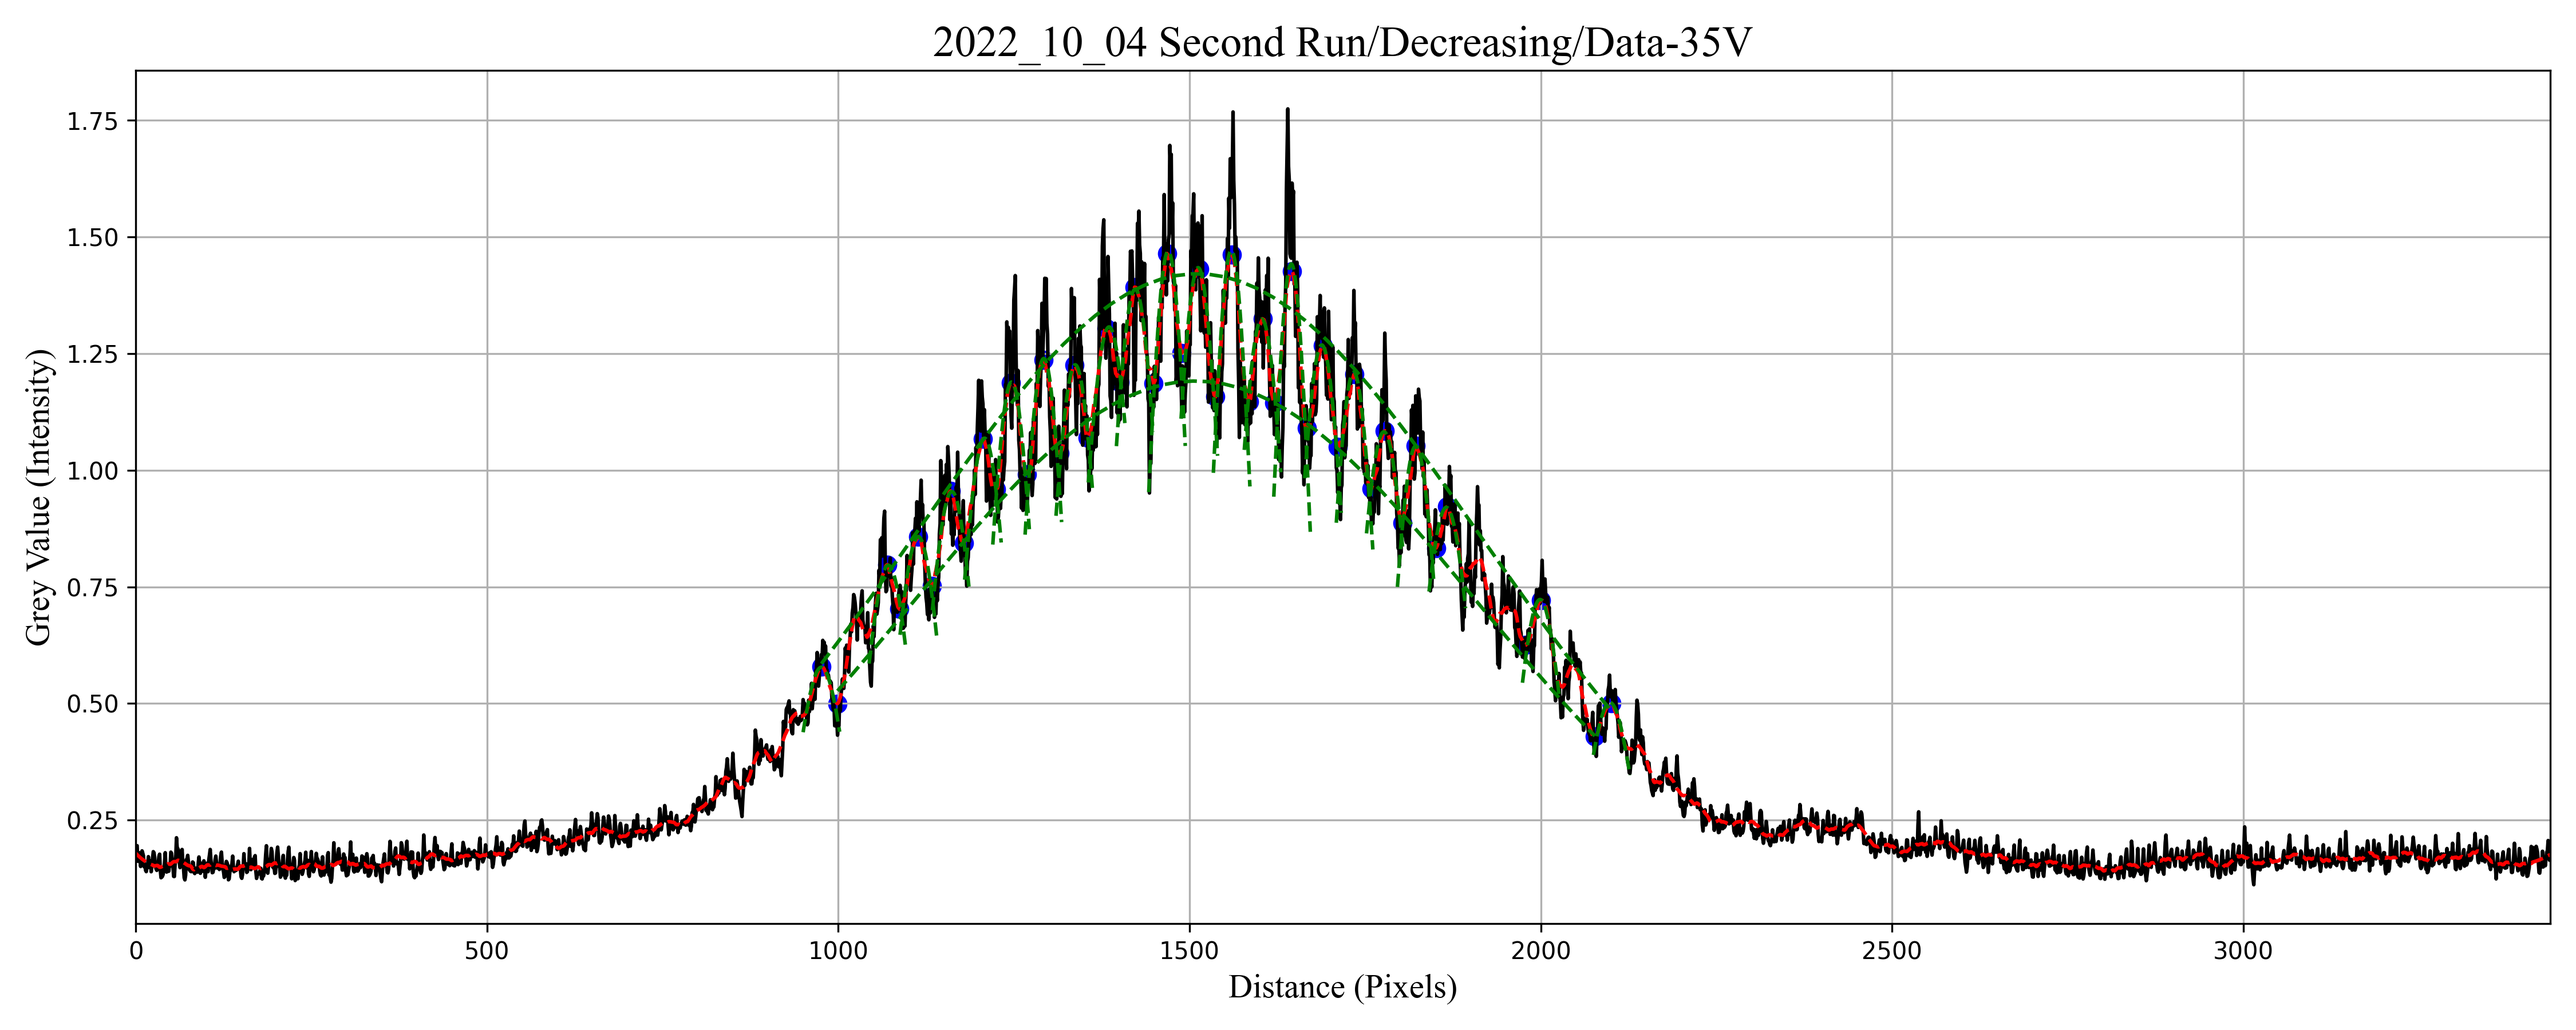
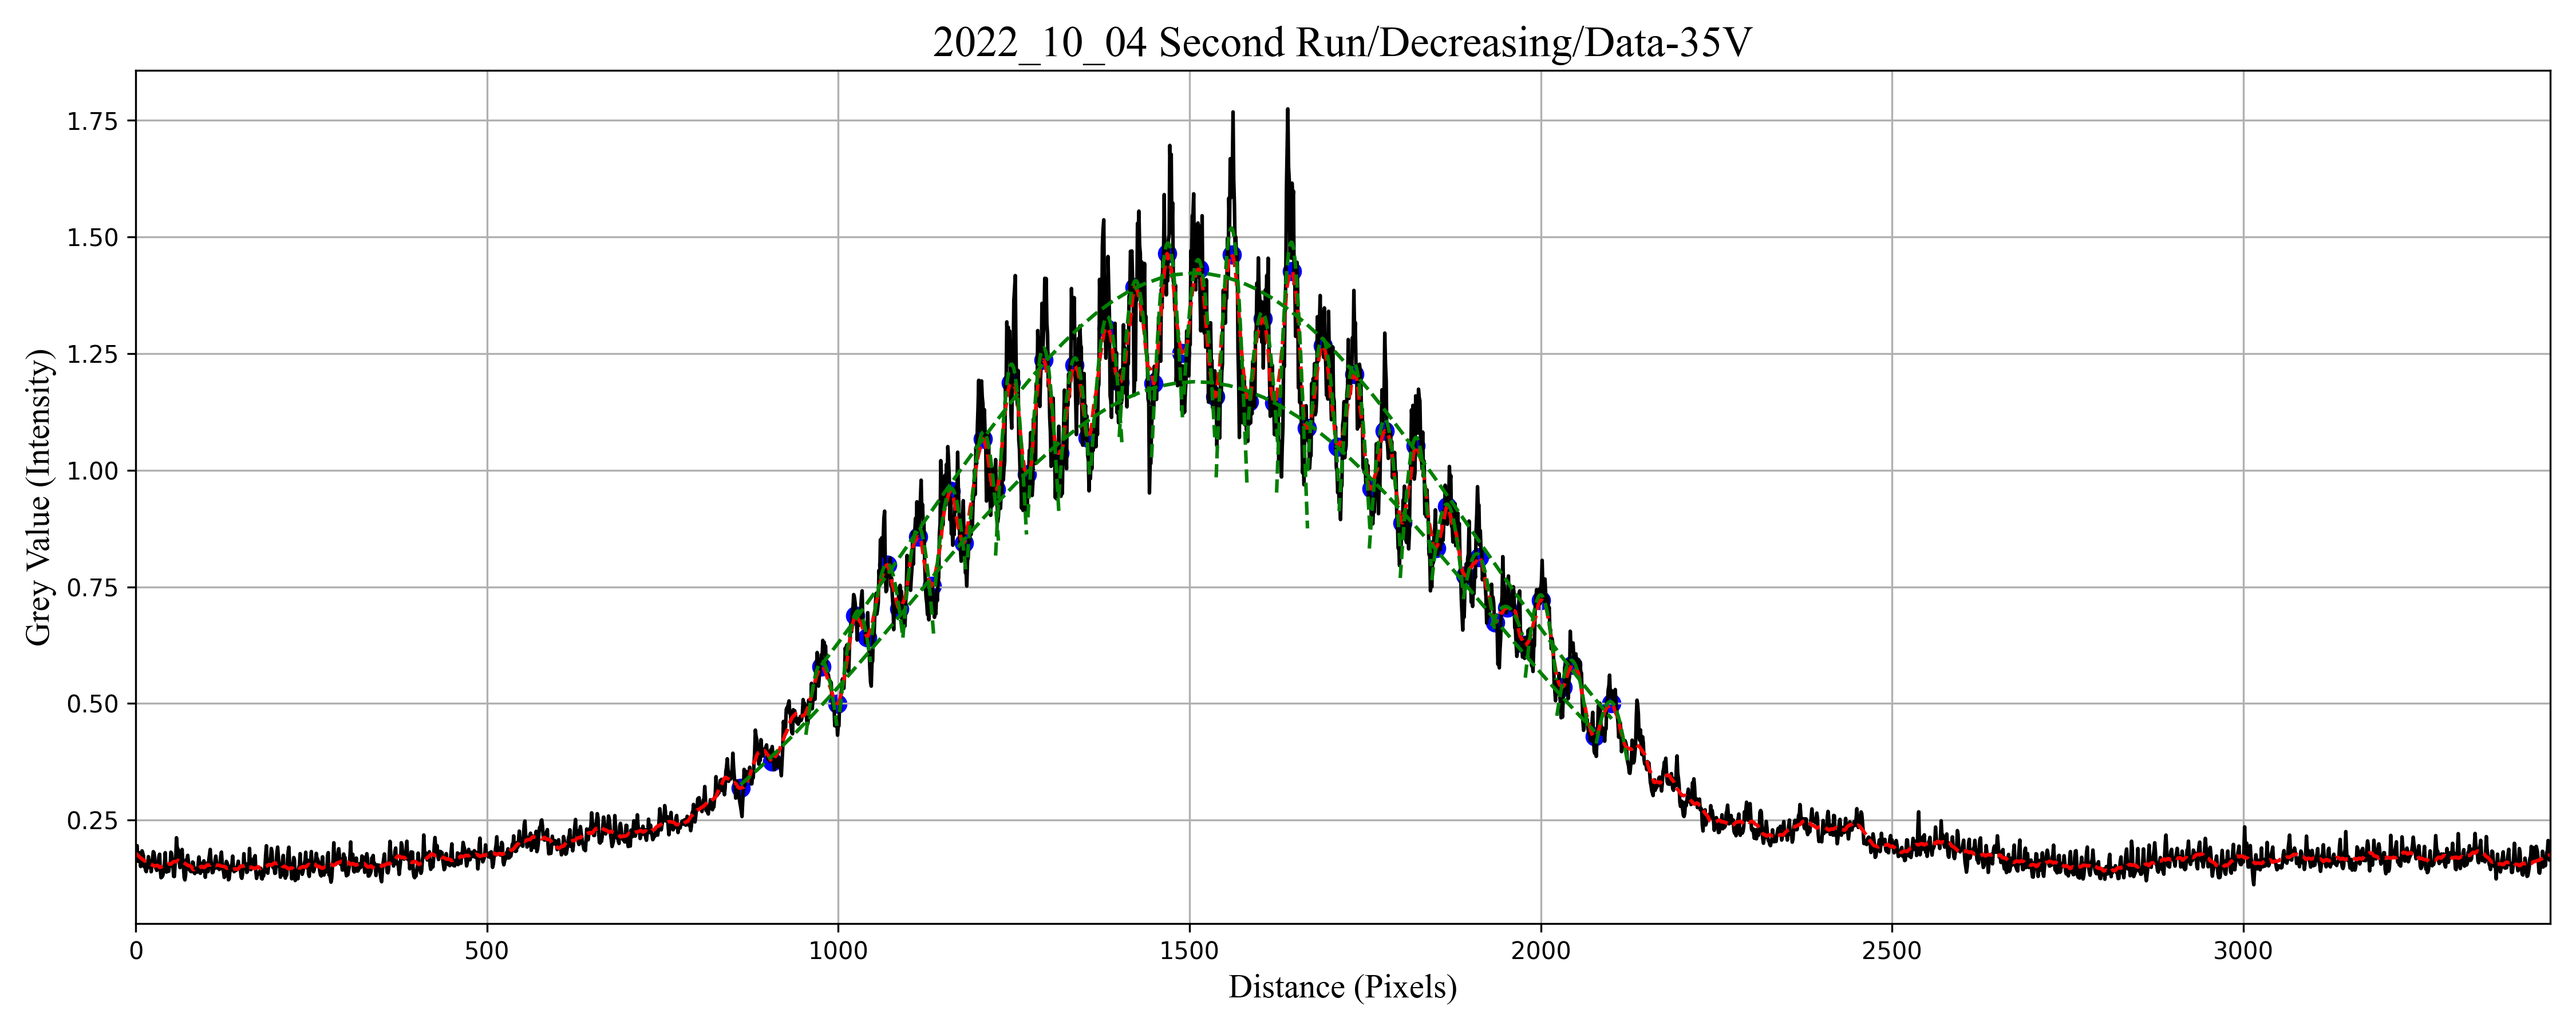
Thursday 20th October end of day graphs

Changed region(s): [[0.3733, 0.2489, 0.6222, 0.7156], [0.3111, 0.5289, 0.3733, 0.7156]]

diff --git a/TVHolography.py b/TVHolography.py
@@ -14,11 +14,11 @@ from Functions import gaussian_peak, read_data, find_peaks,\
         filter_peaks, find_linear_parameters,\
         fit_gaussian, weighted_arithmetic_mean
 
-FILENAME_1 = "2022_10_18 Fourth Run/Rising/Data/"
-FILENAME_2 = "2022_10_18 Fourth Run/Decreasing/Data/"
-SAVE_FOLDER_1 = "2022_10_18 Fourth Run/Rising/Results/"
-SAVE_FOLDER_2 = "2022_10_18 Fourth Run/Decreasing/Results/"
-SAVE_FOLDER_AVERAGES = "2022_10_18 Fourth Run/Comparison/"
+FILENAME_1 = "2022_10_04 Second Run/Rising/Data/"
+FILENAME_2 = "2022_10_04 Second Run/Decreasing/Data/"
+SAVE_FOLDER_1 = "2022_10_04 Second Run/Rising/Results/"
+SAVE_FOLDER_2 = "2022_10_04 Second Run/Decreasing/Results/"
+SAVE_FOLDER_AVERAGES = "2022_10_04 Second Run/Comparison/"
 X_VARIABLE = "Voltage"
 Y_VARIABLE = 'Grey Value (Intensity)'
 
@@ -80,6 +80,12 @@ def draw_plot(title, data, savgol_parameter, filename,
     
     mean_fringe_spacing, mean_fringe_spacing_sigma = weighted_arithmetic_mean(fringe_spacing, fringe_spacing_uncertainty) 
 
+
+    # pixels to metres
+    pix_to_m = 460e2
+
+    metre_fringe_spacing = fringe_spacing / pix_to_m
+
     axs.grid()
     axs.set_xlim((np.min(data[:, 0]), np.max(data[:, 0])))
 
@@ -87,9 +93,10 @@ def draw_plot(title, data, savgol_parameter, filename,
     plt.savefig(save_folder + title, dpi=300, transparent=False)
     plt.close()
 
-    return np.array((int(title), 1 / np.average(fringe_spacing),
-                    (1 / (np.average(fringe_spacing) ** 2))
-                    * np.std(fringe_spacing) * (1 / np.sqrt(len(fringe_spacing)))))
+    return np.array((int(title), 1 / np.average(metre_fringe_spacing),
+                    (1 / (np.average(metre_fringe_spacing) ** 2))
+                    * np.std(metre_fringe_spacing) *
+                    (1 / np.sqrt(len(metre_fringe_spacing)))))
 
 
 def plot_averages(data_1, data_2, save_folder):
@@ -97,7 +104,7 @@ def plot_averages(data_1, data_2, save_folder):
     fig.set_size_inches(15, 6)
 
     axs.set_xlabel("Voltage", fontsize=14, fontfamily='times new roman')
-    axs.set_ylabel("1 / Fringe seperation in pixels",
+    axs.set_ylabel("1 / Fringe seperation in metres",
                    fontsize=14, fontfamily='times new roman')
     axs.set_title(FILENAME_1[: -1] + " and " + FILENAME_2[: -1],
                   fontsize=18, fontfamily='times new roman')
@@ -123,7 +130,7 @@ def plot_averages(data_1, data_2, save_folder):
     plt.plot(np.linspace(0, 55), m_1*np.linspace(0, 55) + c_1, color='blue',
              label="Rising voltage: y =({0:.3g} $\pm$ {1:.3g})x"\
                    .format(m_1, sigma_m_1)
-                   +" + {0:.1g} $\pm$ {1:.1g}"\
+                   +" + {0:.3g} $\pm$ {1:.1g}"\
                    .format(c_1, sigma_c_1))
     plt.plot(np.linspace(0, 55), m_2*np.linspace(0, 55) + c_2, color='red',
              label="Decreasing voltage: y =({0:.3g} $\pm$ {1:.1g})x"\

diff --git a/Parameters.py b/Parameters.py
@@ -29,6 +29,6 @@ SAVGOL_FILTER_PARAMETERS_2 = {"00": 501, #savgol parameters for decreasing volta
                             "65": 11,
                             "70": 11,} 
 PEAK_PROMINENCE = {
-    "Rising": 0.8,
-    "Decreasing": 0.8
+    "Rising": 0.05,
+    "Decreasing": 0.02
 }                        
